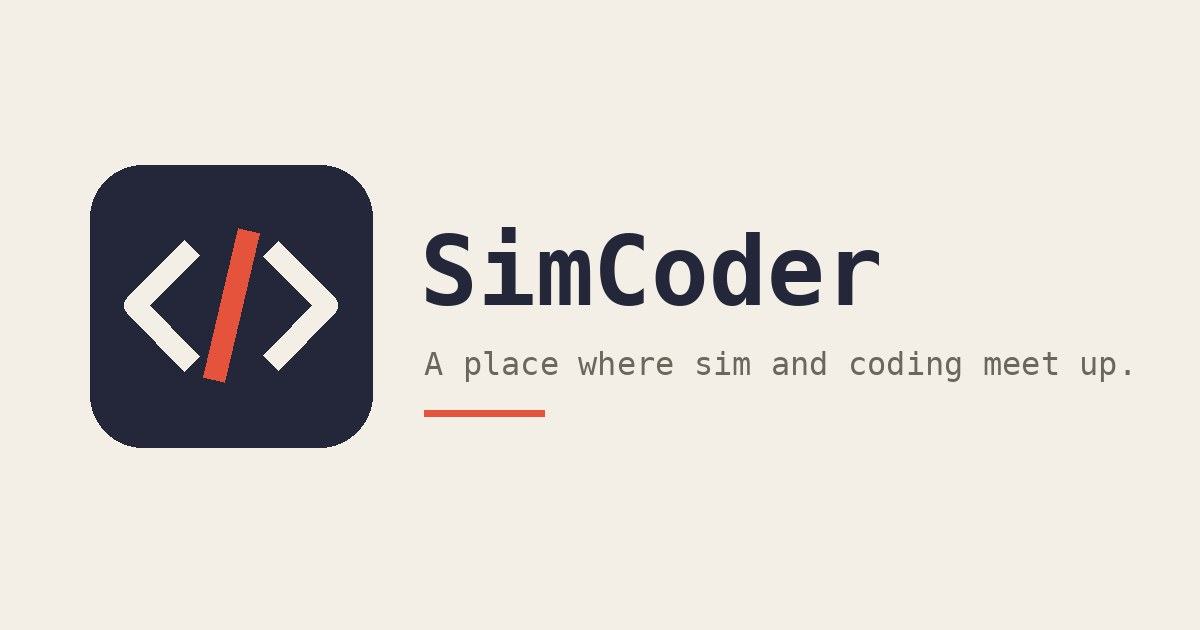
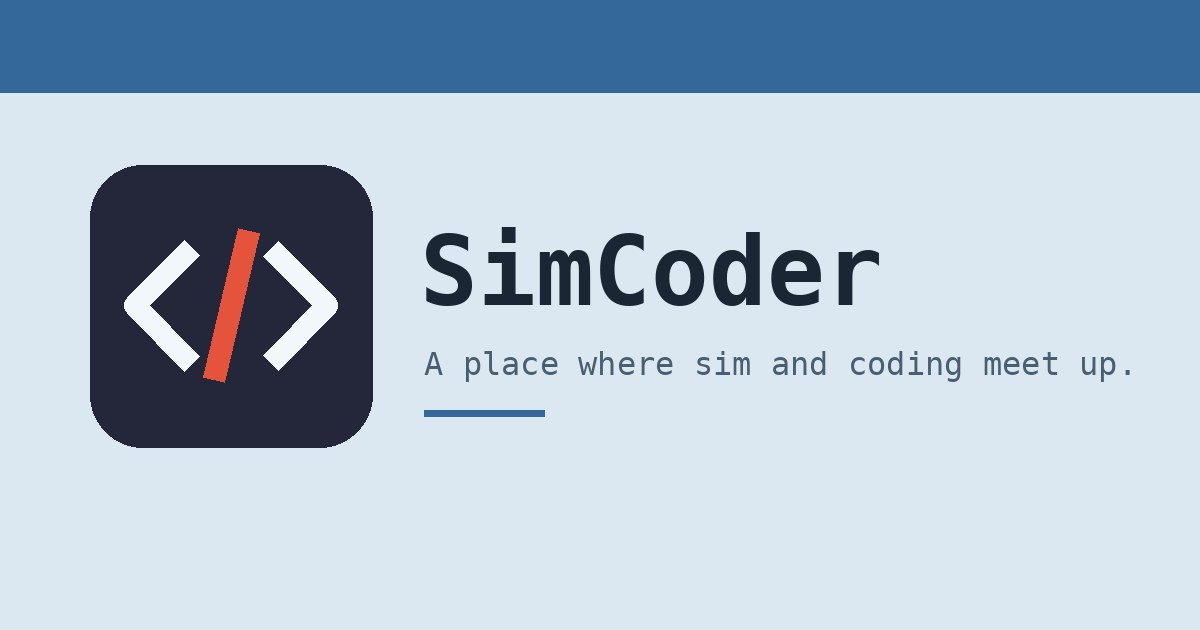
update css

diff --git a/assets/css/extended/simcoder.css b/assets/css/extended/simcoder.css
@@ -27,15 +27,19 @@
 :root {
     --font-mono: "Intel One Mono", ui-monospace, "Cascadia Code", "Fira Code", Menlo, Consolas, monospace;
 
-    /* light, but not white */
-    --theme: rgb(243, 239, 230);
-    --entry: rgb(250, 247, 240);
-    --primary: rgb(43, 42, 39);
-    --secondary: rgb(107, 103, 93);
-    --tertiary: rgb(221, 215, 200);
-    --content: rgb(51, 49, 45);
-    --border: rgb(226, 220, 205);
-    --code-bg: rgb(233, 228, 214);
+    /* Daphne Blue: pale sky blue, light but not white */
+    --theme: rgb(219, 232, 241);          /* article page background */
+    --code-bg: rgb(201, 220, 234);        /* home/list page background, inline code, TOC */
+    --entry: rgb(238, 244, 249);          /* cards */
+    --primary: rgb(26, 38, 52);
+    --content: rgb(34, 47, 62);
+    --secondary: rgb(74, 94, 114);
+    --tertiary: rgb(172, 196, 215);
+    --border: rgb(190, 209, 224);
+
+    /* header bar */
+    --header-bg: #34679a;
+    --header-fg: #f2f7fb;
 
     /* dark code blocks (same colour as the chroma palette background) */
     --code-block-bg: rgb(36, 39, 58);
@@ -107,7 +111,68 @@ pre.mermaid {
     margin: 1.5rem 0;
 }
 
-/* Cover image at the top of an article */
+/* Wider content column (PaperMod default: 720px) */
+:root {
+    --main-width: 840px;
+    /* Shape of the cover at the top of an article: width / height.
+       3 / 2 is a typical photo; 5 / 2 is about 60% as tall. Bigger first number = lower image. */
+    --cover-ratio: 5 / 2;
+    /* Thumbnail in the home list */
+    --thumb-width: 200px;
+    --thumb-ratio: 4 / 3;
+}
+
+/* Cover image at the top of an article: lower, cropped from the centre */
+.post-single .entry-cover img {
+    aspect-ratio: var(--cover-ratio);
+    object-fit: cover;
+    object-position: center;
+}
+
+/* Home / list: small image on the left, title and text on the right */
+.post-entry:not(.tag-entry):has(.entry-cover) {
+    display: grid;
+    grid-template-columns: var(--thumb-width) minmax(0, 1fr);
+    column-gap: var(--gap);
+    align-items: start;
+}
+
+.post-entry:not(.tag-entry):has(.entry-cover) > * {
+    grid-column: 2;
+}
+
+.post-entry:not(.tag-entry):has(.entry-cover) > .entry-cover {
+    grid-column: 1;
+    grid-row: 1 / span 3;
+    margin: 0;
+}
+
+.post-entry:not(.tag-entry):has(.entry-cover) > .entry-link {
+    grid-column: 1 / -1;
+    grid-row: 1 / -1;
+}
+
+.post-entry .entry-cover img {
+    aspect-ratio: var(--thumb-ratio);
+    object-fit: cover;
+}
+
+/* Phones: image on top again, full width */
+@media (max-width: 600px) {
+    .post-entry:not(.tag-entry):has(.entry-cover) {
+        display: block;
+    }
+
+    .post-entry:not(.tag-entry):has(.entry-cover) > .entry-cover {
+        margin-bottom: var(--gap);
+    }
+
+    .post-entry .entry-cover img {
+        aspect-ratio: 16 / 9;
+    }
+}
+
+/* Cover image: rounded corners */
 .entry-cover img {
     border-radius: var(--radius);
 }
@@ -115,6 +180,27 @@ pre.mermaid {
 .entry-cover figcaption {
     font-size: 0.8rem;
     color: var(--secondary);
+}
+
+/* Header: full-width bar in the favourite blue */
+.header {
+    background: var(--header-bg);
+    border-bottom: 1px solid rgba(0, 0, 0, 0.18);
+}
+
+.header,
+.header a,
+.header .logo a {
+    color: var(--header-fg);
+}
+
+.header .menu a {
+    opacity: 0.85;
+}
+
+.header .menu a:hover,
+.header .menu .active {
+    opacity: 1;
 }
 
 /* Header logo */

diff --git a/layouts/_partials/cover.html b/layouts/_partials/cover.html
@@ -1,0 +1,63 @@
+{{- with .cxt}} {{/* Apply proper context from dict */}}
+{{- if (and .Params.cover.image (not $.isHidden)) }}
+<figure class="entry-cover">
+    {{- $loading := cond $.IsSingle "eager" "lazy" }}
+    {{- $addLink := (and site.Params.cover.linkFullImages $.IsSingle) }}
+    {{- $prod := (hugo.IsProduction | or (eq site.Params.env "production")) }}
+    {{- $alt := (.Params.cover.alt | default .Params.cover.caption | plainify) }}
+    {{- $responsiveImages := (.Params.cover.responsiveImages | default site.Params.cover.responsiveImages) | default true }}
+
+    {{- $cover := (.Resources.ByType "image").GetMatch (printf "*%s*" (.Params.cover.image)) }}
+    {{- if not $cover }}
+        {{- $cover = (resources.ByType "image").GetMatch (printf "*%s*" (.Params.cover.image)) }}
+    {{- end }}
+    {{- /* We are not using the .Param.cover.relative to decide the location of image */}}
+    {{- /* If we have the image in pageBundle or globalResources we can process the image */}}
+
+    {{- $sizes := (slice "360" "480" "720" "1080" "1500") }}
+    {{- $processableFormats := (slice "jpg" "jpeg" "png" "tif" "bmp" "gif" "webp") -}}
+
+    {{- $imgdl := (.Params.cover.image) | absURL }}
+    {{- if $cover -}}
+        {{- $imgdl = $cover.Permalink }}
+    {{- end -}}
+
+    {{- if $addLink }}
+        <a href="{{ $imgdl }}" target="_blank" rel="noopener noreferrer">
+    {{- end }}
+
+    {{- if $cover -}}
+        {{/* i.e it is present in page bundle */}}
+        {{- if (and (in $processableFormats $cover.MediaType.SubType) ($responsiveImages) (eq $prod true)) }}
+            <img loading="{{$loading}}"
+                srcset='{{- range $size := $sizes -}}
+                            {{- if (ge $cover.Width $size) }}
+                                {{- printf "%s %s" (($cover.Resize (printf "%sx" $size)).Permalink) (printf "%sw," $size) }}
+                            {{- end }}
+                        {{- end }}
+                        {{- printf "%s %dw" ($cover.Permalink) ($cover.Width) }}'
+                src="{{ $cover.Permalink }}"
+                sizes="{{ if $.IsSingle }}(min-width: 768px) 720px, 100vw{{ else }}(min-width: 600px) 200px, 100vw{{ end }}"
+                width="{{ $cover.Width }}" height="{{ $cover.Height }}"
+                alt="{{ $alt }}">
+        {{- else }}{{/* Unprocessable image or responsive images disabled */}}
+            <img loading="{{ $loading }}" src="{{ $imgdl }}" alt="{{ $alt }}">
+        {{- end }}
+    {{- else }}
+        {{- /* For absolute urls and external links, no img processing here */}}
+        <img loading="{{ $loading }}" src="{{ $imgdl }}" alt="{{ $alt }}">
+    {{- end }}
+
+    {{- if $addLink }}
+        </a>
+    {{- end -}}
+
+    {{- /*  Display Caption  */}}
+    {{- if $.IsSingle }}
+        {{ with .Params.cover.caption -}}
+            <figcaption>{{ . | markdownify }}</figcaption>
+        {{- end }}
+    {{- end }}
+</figure>
+{{- end }}{{/* End image */}}
+{{- end -}}{{/* End context */ -}}

diff --git a/README.md b/README.md
@@ -65,6 +65,8 @@ Le versioni delle action nel workflow (`checkout@v4` ecc.) potrebbero avere nel 
 ## Dove si cambia l'aspetto
 
 - `assets/css/extended/simcoder.css`: font, colori della pagina (variabili `--theme`, `--entry`, ...), colore dei blocchi di codice (`--code-block-bg`).
+- Colori: la barra in alto usa `--header-bg` (`#34679a`) e `--header-fg`; lo sfondo è un azzurro "Daphne Blue" (`--theme` per gli articoli, `--code-bg` per la home, `--entry` per le card). Il colore della barra del browser sul telefono è `theme_color` in `hugo.toml`.
+- Sempre in `simcoder.css`, in cima alla sezione layout: `--main-width` (larghezza della colonna, ora 840px), `--cover-ratio` (forma della copertina nell'articolo: `5 / 2` è circa il 60% dell'altezza di una foto `3 / 2`; per una copertina ancora più bassa prova `3 / 1`), `--thumb-width` e `--thumb-ratio` (miniatura nella home, ora 200px e `4 / 3`). Sotto i 600px di larghezza (telefono) la miniatura torna sopra il titolo.
 - `hugo.toml`: titolo, menu, icone social, opzioni del tema.
 - `static/fonts/`: Intel One Mono (licenza OFL 1.1, vedi `README.txt` nella cartella).
 

diff --git a/content/posts/hello-simcoder.md b/content/posts/hello-simcoder.md
@@ -1,7 +1,7 @@
 ---
 title: "Hello, SimCoder"
 date: 2026-11-07T09:00:00+01:00
-draft: false
+draft: true
 summary: "A test article that exercises everything the site can do: code, diagrams, images and video."
 categories: ["simcoder"]
 tags: ["meta", "cpp", "csharp"]
